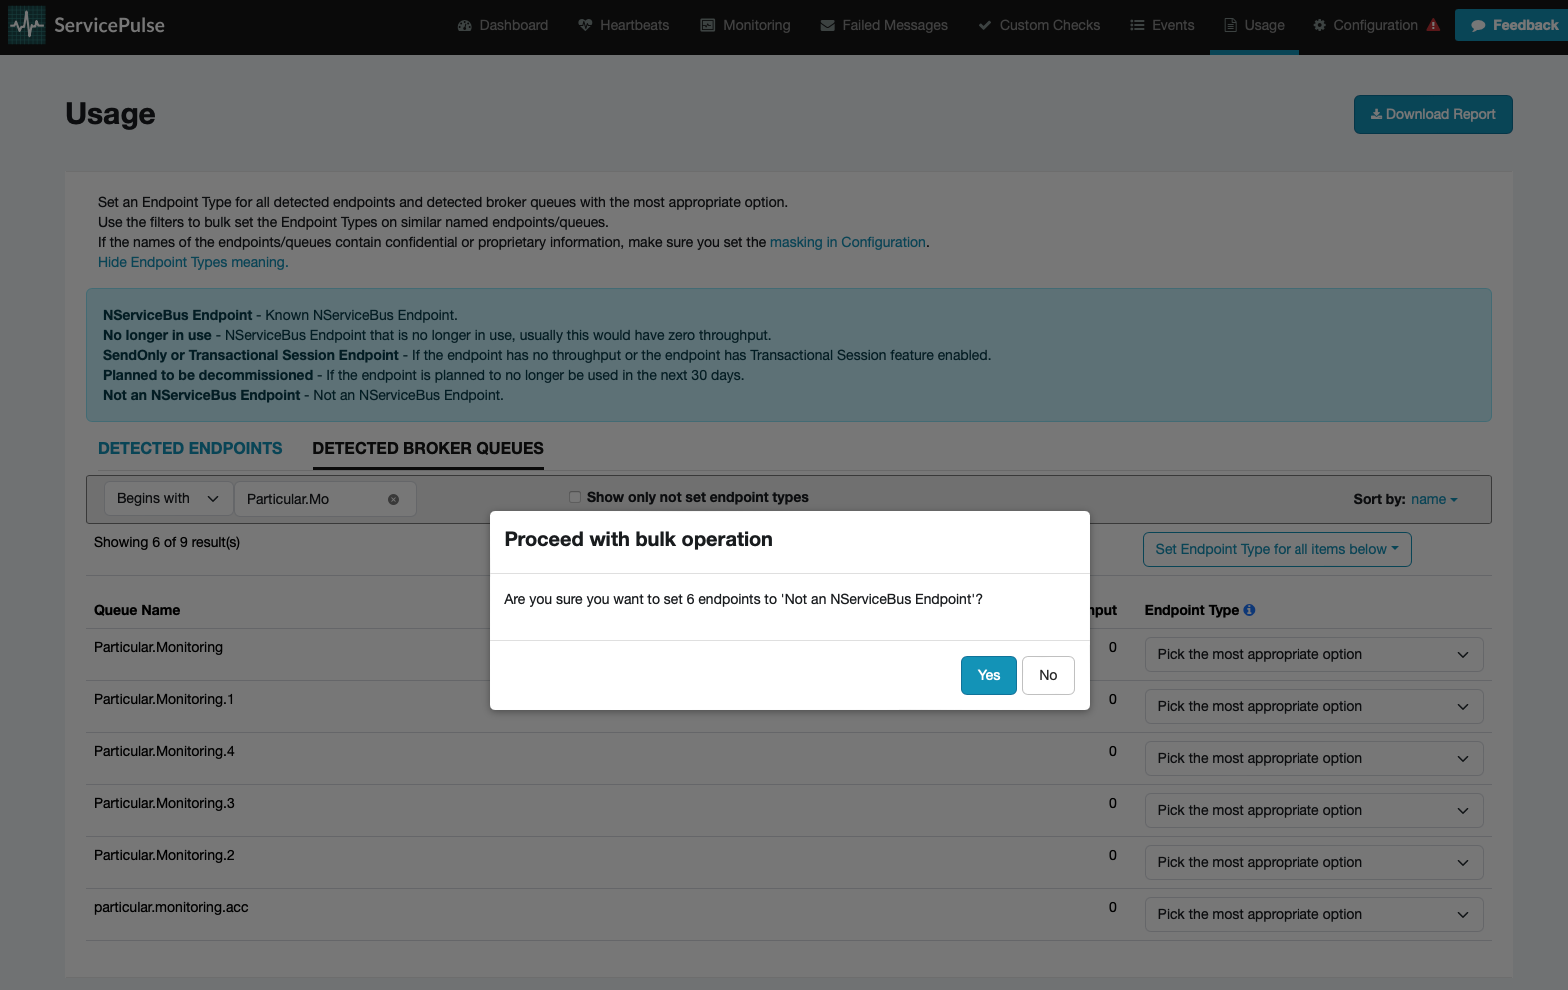
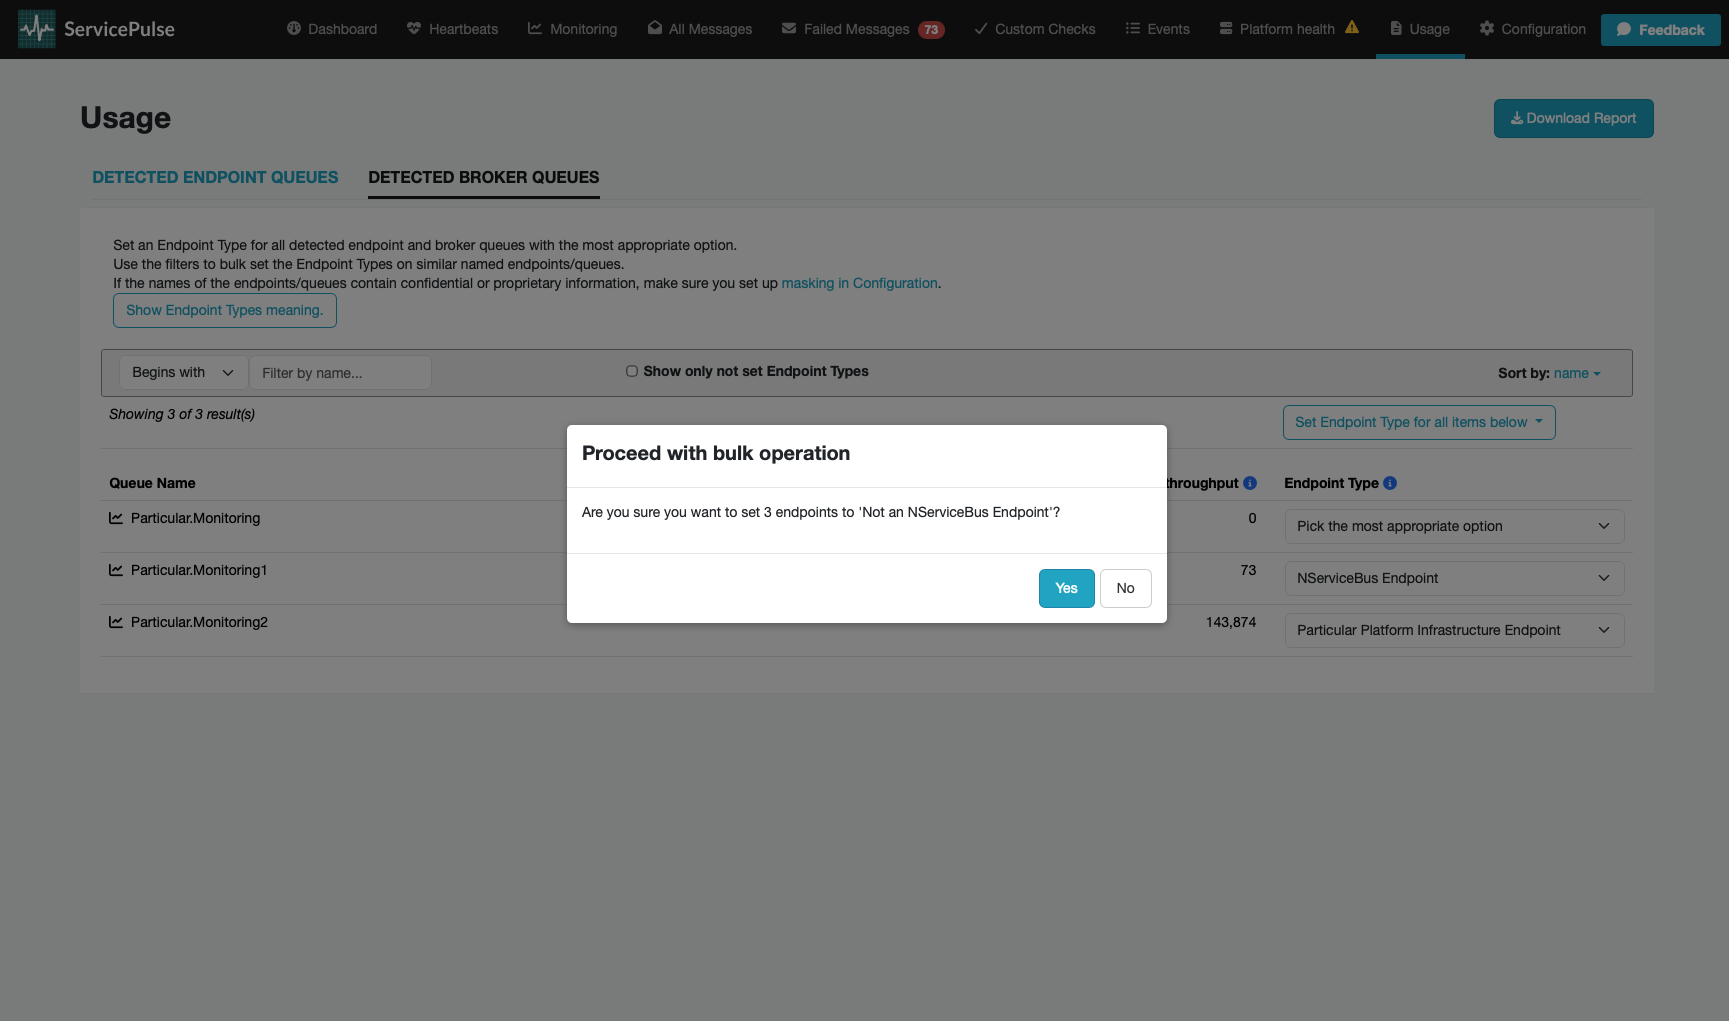
Editorial around usage reporting in ServicePulse

diff --git a/servicepulse/usage-reporting-with-servicepulse.md b/servicepulse/usage-reporting-with-servicepulse.md
@@ -1,0 +1,98 @@
+---
+title: Usage reporting with ServicePulse
+summary: Use ServicePulse to view usage and download a report for licensing NServiceBus
+reviewed: 2026-09-27
+redirects:
+- nservicebus/usage
+- servicepulse/usage
+---
+
+> [!NOTE]
+> The usage data collection functionality requires ServicePulse version 1.40 or later, and ServiceControl version 5.4 or later.
+
+A usage report is a file generated by ServicePulse that shows messaging throughput of a system based on identified NServiceBus endpoints and the throughput of their corresponding queues. To enable this functionality in ServicePulse, [usage reporting setup](/servicepulse/usage-reporting-setup.md) must be completed first. Once configured, no ongoing maintenance is needed, and the Usage page will display throughput for each queue detected.
+
+After at least 24 hours of data is collected, the report can be downloaded from the Usage page. This is needed when licensing the Particular Platform. Particular Software does not automatically have access to this report; it is typically requested at license renewal time and must be downloaded and sent manually. Before submitting the report, [sensitive data can be masked](usage-reporting-setup.md#report-masks) and queues that do not map to NServiceBus endpoints (and therefore, do not count toward licensing) can be marked as such.
+
+Customers who are not able to use ServicePulse can contact their Account Manager directly or [reach out to the Particular Software Sales team](https://particular.net/contact) if they do not have an Account Manager.
+
+## Viewing usage data in ServicePulse
+
+The Usage page in ServicePulse has two tabs:
+
+- [Detected endpoint queues](#viewing-usage-data-in-servicepulse-detected-endpoint-queues)
+- [Detected broker queues](#viewing-usage-data-in-servicepulse-detected-broker-queues) (only displayed when using a broker transport)
+
+For each detected endpoint queue and broker queue, the maximum daily throughput is displayed. This can be helpful to get an understanding of which [tier](https://particular.net/pricing) the corresponding endpoint belongs to for licensing purposes.
+
+### Detected endpoint queues
+
+All detected endpoint queues have a clear connection to an NServiceBus endpoint which counts toward licensing. However, these can be marked to indicate if they correspond to a [type of endpoint that should not count toward licensing](#endpoint-type-indicators).
+
+Changes made to the endpoint type are automatically saved for future reporting, so it is important to remember to make an update if the endpoint type changes.
+
+### Detected broker queues
+
+For [NServiceBus transport](./../transports) that allow querying of metrics, there may be additional information on the `Detected Broker Queues` tab. These are queues detected on the broker that cannot be automatically linked to an NServiceBus endpoint. These queues will be included in the usage report for NServiceBus licensing purposes, but their corresponding endpoints can also be [marked to indicate if they should not count toward licensing](#endpoint-type-indicators).
+
+This feature will not be displayed for non-broker transports like MSMQ and Azure Storage Queues.
+
+## Downloading a usage report
+
+Click `Download Report` from ServicePulse to generate a usage report JSON file with the detected [endpoint queues](#viewing-usage-data-in-servicepulse-detected-endpoint-queues) and [broker queues](#viewing-usage-data-in-servicepulse-detected-broker-queues). The report includes the [endpoint type](#endpoint-type-indicators) selections made on screen, and any specified [words to mask](usage-reporting-setup.md#report-masks) will be obfuscated.
+
+The `Download Report` button is disabled if there is less than 24 hours worth of usage data.
+
+The report file must be provided to Particular Software on request; it is **not** automatically uploaded or sent. Once Particular Software receives the report, the reported queues and throughput are analyzed to determine which ones count for licensing purposes.
+
+## Endpoint type indicators
+
+The following endpoint type indicators are available to help categorize endpoints appropriately:
+
+### NServiceBus Endpoint
+
+Known NServiceBus [endpoint](/nservicebus/endpoints/). These endpoints are included in licensing calculations as they represent active NServiceBus endpoints processing business messages.
+
+### No longer in use
+
+NServiceBus endpoint that is no longer in use, usually with zero throughput in the corresponding queue. These endpoints are not included in licensing calculations since they are inactive.
+
+### Transactional Session Processor Endpoint
+
+An [endpoint that is only processing transactional session dispatch messages](/nservicebus/transactional-session/#design-considerations). These are [specialized endpoints](/nservicebus/transactional-session/#remote-processor) dedicated to handling the coordination of transactional sessions, and are excluded from licensing calculations.
+
+### Send-Only Endpoint
+
+An endpoint that [only sends](/nservicebus/endpoints/#send-only) messages and does not process any messages. These endpoints have different licensing considerations since they don't process incoming messages.
+
+### Planned to be decommissioned
+
+An endpoint that is expected to no longer be used within the next 30 days. These endpoints may be excluded from licensing calculations as they represent temporary infrastructure.
+
+### Not an NServiceBus Endpoint
+
+Not an NServiceBus endpoint. These are broker queues or other messaging infrastructure that should not be included in NServiceBus licensing calculations.
+
+### Gateway or Bridging Endpoint
+
+These are endpoints that are either part of the [Gateway](/nservicebus/gateway/) or [Messaging Bridge](/nservicebus/bridge/) infrastructure.
+
+### Particular Platform Endpoint
+
+This is a Particular Platform infrastructure endpoint.
+
+## Bulk endpoint type updates
+
+The filter option can be used for bulk updating endpoint types matching a certain naming pattern.
+
+1. Find the endpoints/queues that need to be bulk updated
+2. Press the `Set Endpoint Type for all items below` button to select which endpoint type the filtered results should be set to.
+   ![usage-endpoints-filter](images/usage-endpoints-filter.png "width=600")
+3. A confirmation box appears - press `Yes` to proceed with the bulk update.
+   ![usage-endpoints-bulk-update](images/usage-endpoints-bulk-update.png "width=600")
+4. All endpoints/queues on screen will be updated to the selected endpoint type and automatically saved.
+   ![usage-endpoints-updated](images/usage-endpoints-updated.png "width=600")
+
+## Need help?
+
+To get help downloading a usage report, [open a support case](https://customers.particular.net/request-support/licensing).

diff --git a/servicepulse/usage-reporting-setup.md b/servicepulse/usage-reporting-setup.md
@@ -1,24 +1,27 @@
 ---
 title: Usage Reporting Setup
-summary: Viewing endpoint usage summary and generating a usage report
+summary: How to set up ServicePulse for usage reporting
 component: ServicePulse
-reviewed: 2026-02-11
+reviewed: 2026-09-27
 related:
-  - servicepulse/usage
+  - servicepulse/usage-reporting-with-servicepulse
+redirects:
+  - servicepulse/usage-config
 ---
 
-This document describes the settings required for collecting usage data to generate a usage report.
+This document describes the settings required for collecting usage data to generate a [usage report](usage-reporting-with-servicepulse.md) in ServicePulse.
 
 > [!NOTE]
 > The usage data collection functionality requires ServicePulse version 1.40 or later, and ServiceControl version 5.4 or later.
 
 ## Connection setup
 
-In most scenarios existing ServiceControl error instance connection settings will be used to establish a connection to the broker.
+In most scenarios, existing ServiceControl error instance connection settings will be used to establish a connection to the broker.
 
 ![usage-setup-connections](images/usage-setup-connection.png "width=600")
 
 If there is a connection problem, specific usage settings can be provided as environment variables or directly in the [ServiceControl.exe.config](/servicecontrol/servicecontrol-instances/configuration.md) file.
+
 The Usage Setup tab provides easy copy/paste functionality to obtain the required settings in the correct format, based on configuration type.
 
 Refer to the [Diagnostics](#diagnostics) tab to diagnose connection issues.
@@ -35,11 +38,11 @@ Steps:
     - `ClientId`
     - `ClientSecret`
 
+The setup can be done via the [portal](#connection-setup-azure-service-bus-using-azure-portal) or [CLI](#connection-setup-azure-service-bus-using-azure-cli).
 
 #### Using Azure Portal
 
-To use the Azure Portal, follow these instructions. Alternatively, use the Azure CLI as described below.
-
+To use the Azure Portal:
 
 1. Create App
     - Native to: **Home > App registrations**
@@ -54,7 +57,7 @@ To use the Azure Portal, follow these instructions. Alternatively, use the Azure
 
 #### Using Azure CLI
 
-To use the Azure CLI or scripting, follow these instructions. Alternatively, use the Azure Portal as described above.
+To use the Azure CLI or scripting:
 
 ```ps1
 # Set context first
@@ -125,7 +128,6 @@ To restrict permissions to the minimal required set, create a custom role with t
     }
 }
 ```
-
 
 The `Microsoft.ServiceBus` permissions are required to read queue names and metric data from Azure Monitor. The `Microsoft.Resources/subscriptions` permissions are required in order to locate the Service Bus namespace within the Azure subscription. The `Microsoft.Insights/Metrics/Read` permissions are required to find the available metrics.
 

diff --git a/nservicebus/throughput-tool/index.md b/nservicebus/throughput-tool/index.md
@@ -3,7 +3,7 @@ title: Collecting usage data using legacy Endpoint Throughput Counter tool
 summary: Use the Particular endpoint throughput counter tool to measure the usage of an NServiceBus system.
 reviewed: 2026-07-14
 related:
-  - servicepulse/usage
+  - servicepulse/usage-reporting-with-servicepulse
 redirects:
   - nservicebus/throughput-tool/azure-service-bus
   - nservicebus/throughput-tool/amazon-sqs
@@ -16,7 +16,7 @@ redirects:
 ---
 
 > [!WARNING]
-> Starting 1 January 2027, all projects in active development will be required to use [ServicePulse](./../../servicepulse/usage.md) for usage data collection. Once configured, ServicePulse provides the ability to report usage instantly at any time, without needing to run an external tool or wait for data collection.
+> Starting 1 January 2027, all projects in active development will be required to use [ServicePulse](./../../servicepulse/usage-reporting-with-servicepulse.md) for usage data collection. Once configured, ServicePulse provides the ability to report usage instantly at any time, without needing to run an external tool or wait for data collection.
 >
 > The legacy Endpoint Throughput Counter tool is offered as an alternate option for customers who aren't able to use ServicePulse. If you encounter any issues installing ServicePulse in your environment, please reach out so we can assist in finding a solution.
 >
@@ -543,7 +543,7 @@ The tool measures the number of endpoints used in a system, along with each endp
 
 ### Why should I run the tool
 
-The tool is available as an alternate option for customers who are not able to use [ServicePulse](./../../servicepulse/usage.md) to measure their endpoint throughput.
+The tool is available as an alternate option for customers who are not able to use [ServicePulse](./../../servicepulse/usage-reporting-with-servicepulse.md) to measure their endpoint throughput.
 
 It assists in gathering the information needed for licensing NServiceBus and the Particular Service Platform as required for production systems. Particular Software also uses the information in aggregate to better serve customer needs.
 

diff --git a/platform/throughput-report/index.md b/platform/throughput-report/index.md
@@ -4,15 +4,15 @@ summary: Minimal setup required for generating a usage report for licensing of t
 reviewed: 2026-08-14
 related:
   - nservicebus/licensing
-  - servicepulse/usage
-  - servicepulse/usage-config
+  - servicepulse/usage-reporting-with-servicepulse
+  - servicepulse/usage-reporting-setup
 ---
 
 The Particular Service Platform is licensed based on the number of NServiceBus endpoints and the message throughput of those endpoints. In order to determine these values, a process needs to be run that queries the transport broker for up to 24 hours, and a report generated from this data to be sent to Particular.
 
 The minimal installation required to generate the usage report is:
 
-- [ServiceControl](/servicecontrol/). For most transports, only a single [error instance](/servicecontrol/servicecontrol-instances/) is required, as this is the primary service that contains the broker querying logic. Certain transports [cannot query the broker directly](/servicepulse/usage-config.md#audit-and-monitoring-data); for these an audit or monitoring instance will also be required and all endpoints will need to be configured to send data to these instances.
+- [ServiceControl](/servicecontrol/). For most transports, only a single [error instance](/servicecontrol/servicecontrol-instances/) is required, as this is the primary service that contains the broker querying logic. Certain transports [cannot query the broker directly](/servicepulse/usage-reporting-setup.md#audit-and-monitoring-data); for these an audit or monitoring instance will also be required and all endpoints will need to be configured to send data to these instances.
 - [ServicePulse](/servicepulse/). This is the UI that interfaces with the ServiceControl service to allow users to specify which endpoints are NServiceBus related and generate the usage report to send to Particular.
 
 > [!NOTE]

diff --git a/platform/servicepulse.include.md b/platform/servicepulse.include.md
@@ -1,3 +1,3 @@
 ServicePulse is a web application designed to provide both administrators and developers with powerful tools for monitoring and managing systems. It offers a clear, near real-time, high-level overview of system functionality, along with common failure recovery operations such as retrying failed messages. Additionally, it provides a rich, graphical view of [detailed performance metrics](/monitoring/metrics/in-servicepulse.md), including insights into logical endpoints, physical instances, and individual message types.
 
-For administrators, ServicePulse simplifies system oversight and is essential for generating [usage reports](/servicepulse/usage.md) to determine licensing requirements. For developers, it offers advanced debugging capabilities; including visualizations of message flows, saga state changes, and other system behaviors. Tools like message [flow diagrams](/servicepulse/flow-diagram.md) and [sequence diagrams](/servicepulse/sequence-diagram.md) make it easy to detect anomalies and incorrect behavior. Developers can also access detailed information, such as message headers and metadata, when viewing individual messages.
+For administrators, ServicePulse simplifies system oversight and is essential for generating [usage reports](/servicepulse/usage-reporting-with-servicepulse.md) to determine licensing requirements. For developers, it offers advanced debugging capabilities; including visualizations of message flows, saga state changes, and other system behaviors. Tools like message [flow diagrams](/servicepulse/flow-diagram.md) and [sequence diagrams](/servicepulse/sequence-diagram.md) make it easy to detect anomalies and incorrect behavior. Developers can also access detailed information, such as message headers and metadata, when viewing individual messages.

diff --git a/samples/aspire/platform-asb/sample.md b/samples/aspire/platform-asb/sample.md
@@ -67,11 +67,11 @@ snippet: persistence
 
 #### Usage reporting
 
-The ServiceControl error instance can collect endpoint usage data, which powers the [usage report](/servicepulse/usage.md) in ServicePulse. When using Azure Service Bus, collecting this data requires Azure credentials with the **Monitoring Reader** role. These values are supplied as Aspire parameters:
+The ServiceControl error instance can collect endpoint usage data, which powers the [usage report](/servicepulse/usage-reporting-with-servicepulse.md) in ServicePulse. When using Azure Service Bus, collecting this data requires Azure credentials with the **Monitoring Reader** role. These values are supplied as Aspire parameters:
 
 snippet: throughput-reporting-params
 
-The parameters are passed to `WithThroughputReporting` when the error instance is registered. See [usage reporting setup](/servicepulse/usage-config.md#connection-setup-azure-service-bus) for details on how to obtain them. If usage reporting is not required, omit these parameters and the `WithThroughputReporting` call.
+The parameters are passed to `WithThroughputReporting` when the error instance is registered. See [usage reporting setup](/servicepulse/usage-reporting-setup.md#connection-setup-azure-service-bus) for details on how to obtain them. If usage reporting is not required, omit these parameters and the `WithThroughputReporting` call.
 
 #### Default components
 

diff --git a/nservicebus/transactional-session/index.md b/nservicebus/transactional-session/index.md
@@ -85,7 +85,7 @@ It's recommended not to mix the processing of dispatch messages with business me
 - More accurate metrics: Metrics like critical time and queue length will accurately represent the performance of the dispatch message processing and not be skewed by business messages
 - Simplified management: Knowing that the endpoint only processes dispatch messages makes it possible to always retry all failed messages related to the endpoint via tools like ServicePulse
 
-When configuring endpoints for usage measurement in ServicePulse, mark dedicated transactional session processor endpoints with the appropriate [endpoint type indicator](/servicepulse/usage.md#setting-an-endpoint-type-endpoint-type-indicators).
+When configuring endpoints for usage measurement in ServicePulse, mark dedicated transactional session processor endpoints with the appropriate [endpoint type indicator](/servicepulse/usage-reporting-with-servicepulse.md#endpoint-type-indicators).
 
 partial: design-considerations
 
@@ -234,7 +234,7 @@ When the dispatch message is consumed, but the outbox record is not yet availabl
 ```csharp
 CommitDelayIncrement = 2 * CommitDelayIncrement;
 RemainingCommitDuration = RemainingCommitDuration
-  - (CommitDelayIncrement > RemainingCommitDuration 
+  - (CommitDelayIncrement > RemainingCommitDuration
       ? RemainingCommitDuration
       : CommitDelayIncrement);
 ```

diff --git a/servicecontrol/servicecontrol-instances/configuration.md b/servicecontrol/servicecontrol-instances/configuration.md
@@ -1119,7 +1119,7 @@ If using [MSMQ transport](/transports/msmq) and the monitoring instance is insta
 
 ## Usage Reporting when using the Azure Service Bus transport
 
-The following settings are part of [Usage Reporting Setup when using the Azure Service Bus transport](/servicepulse/usage-config.md#connection-setup-azure-service-bus)
+The following settings are part of [Usage Reporting Setup when using the Azure Service Bus transport](/servicepulse/usage-reporting-setup.md#connection-setup-azure-service-bus)
 
 ### LicensingComponent/ASB/ServiceBusName
 
